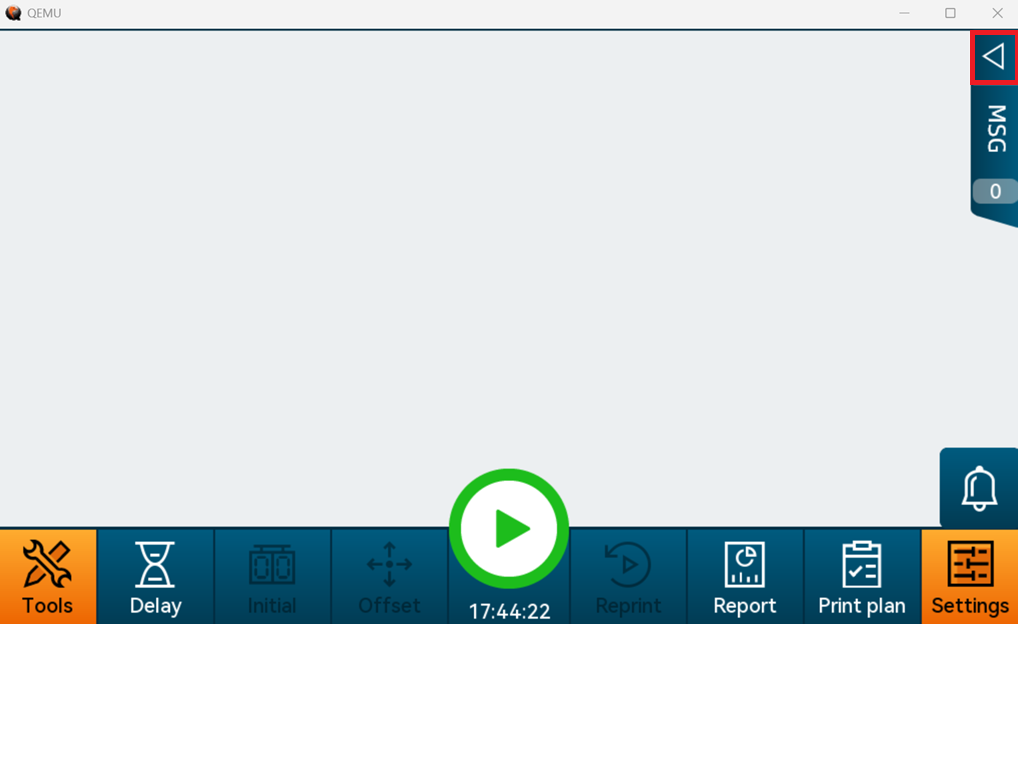
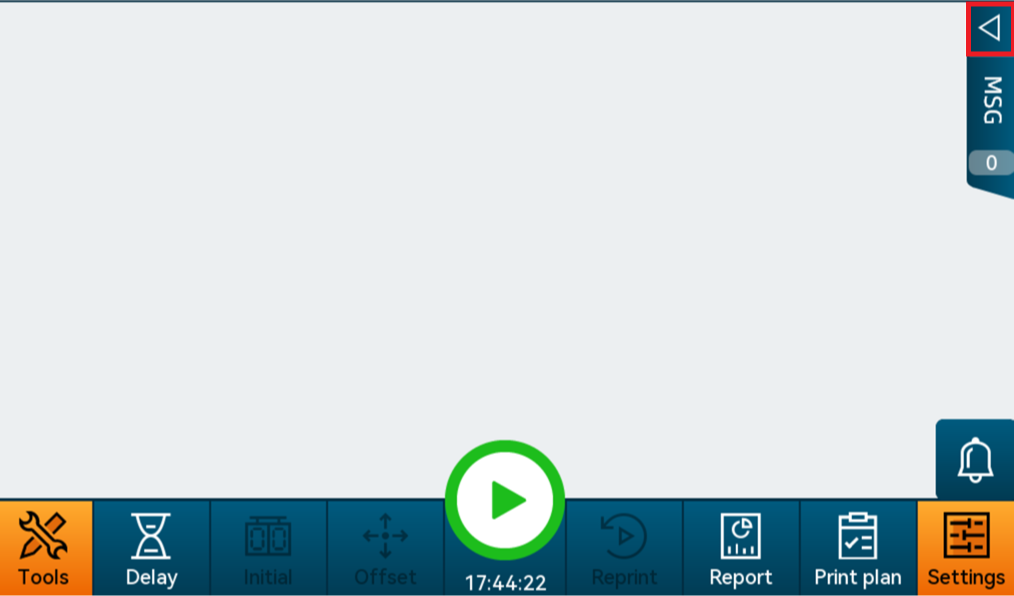
add

diff --git a/DEVICE_SETUP.md b/DEVICE_SETUP.md
@@ -88,11 +88,10 @@ Proxy running: http://localhost:8765
 
 ### 2.1 새로 만들기 메뉴 진입
 
-<img src="images/home_screen_expand.png" width="50%">
-
 1. 홈화면 우측의 **화살표(확장) 버튼**을 클릭합니다.
+<img src="images/home_screen_expand.png" width="50%">
 2. 펼쳐진 메뉴에서 **New(새로 만들기)** 를 클릭합니다.
-
+<img src="images/home_screen_new.png" width="50%">
 ### 2.2 Text(문장) 개체 추가
 
 <img src="images/new_dynamic_text.jpg" width="50%">
